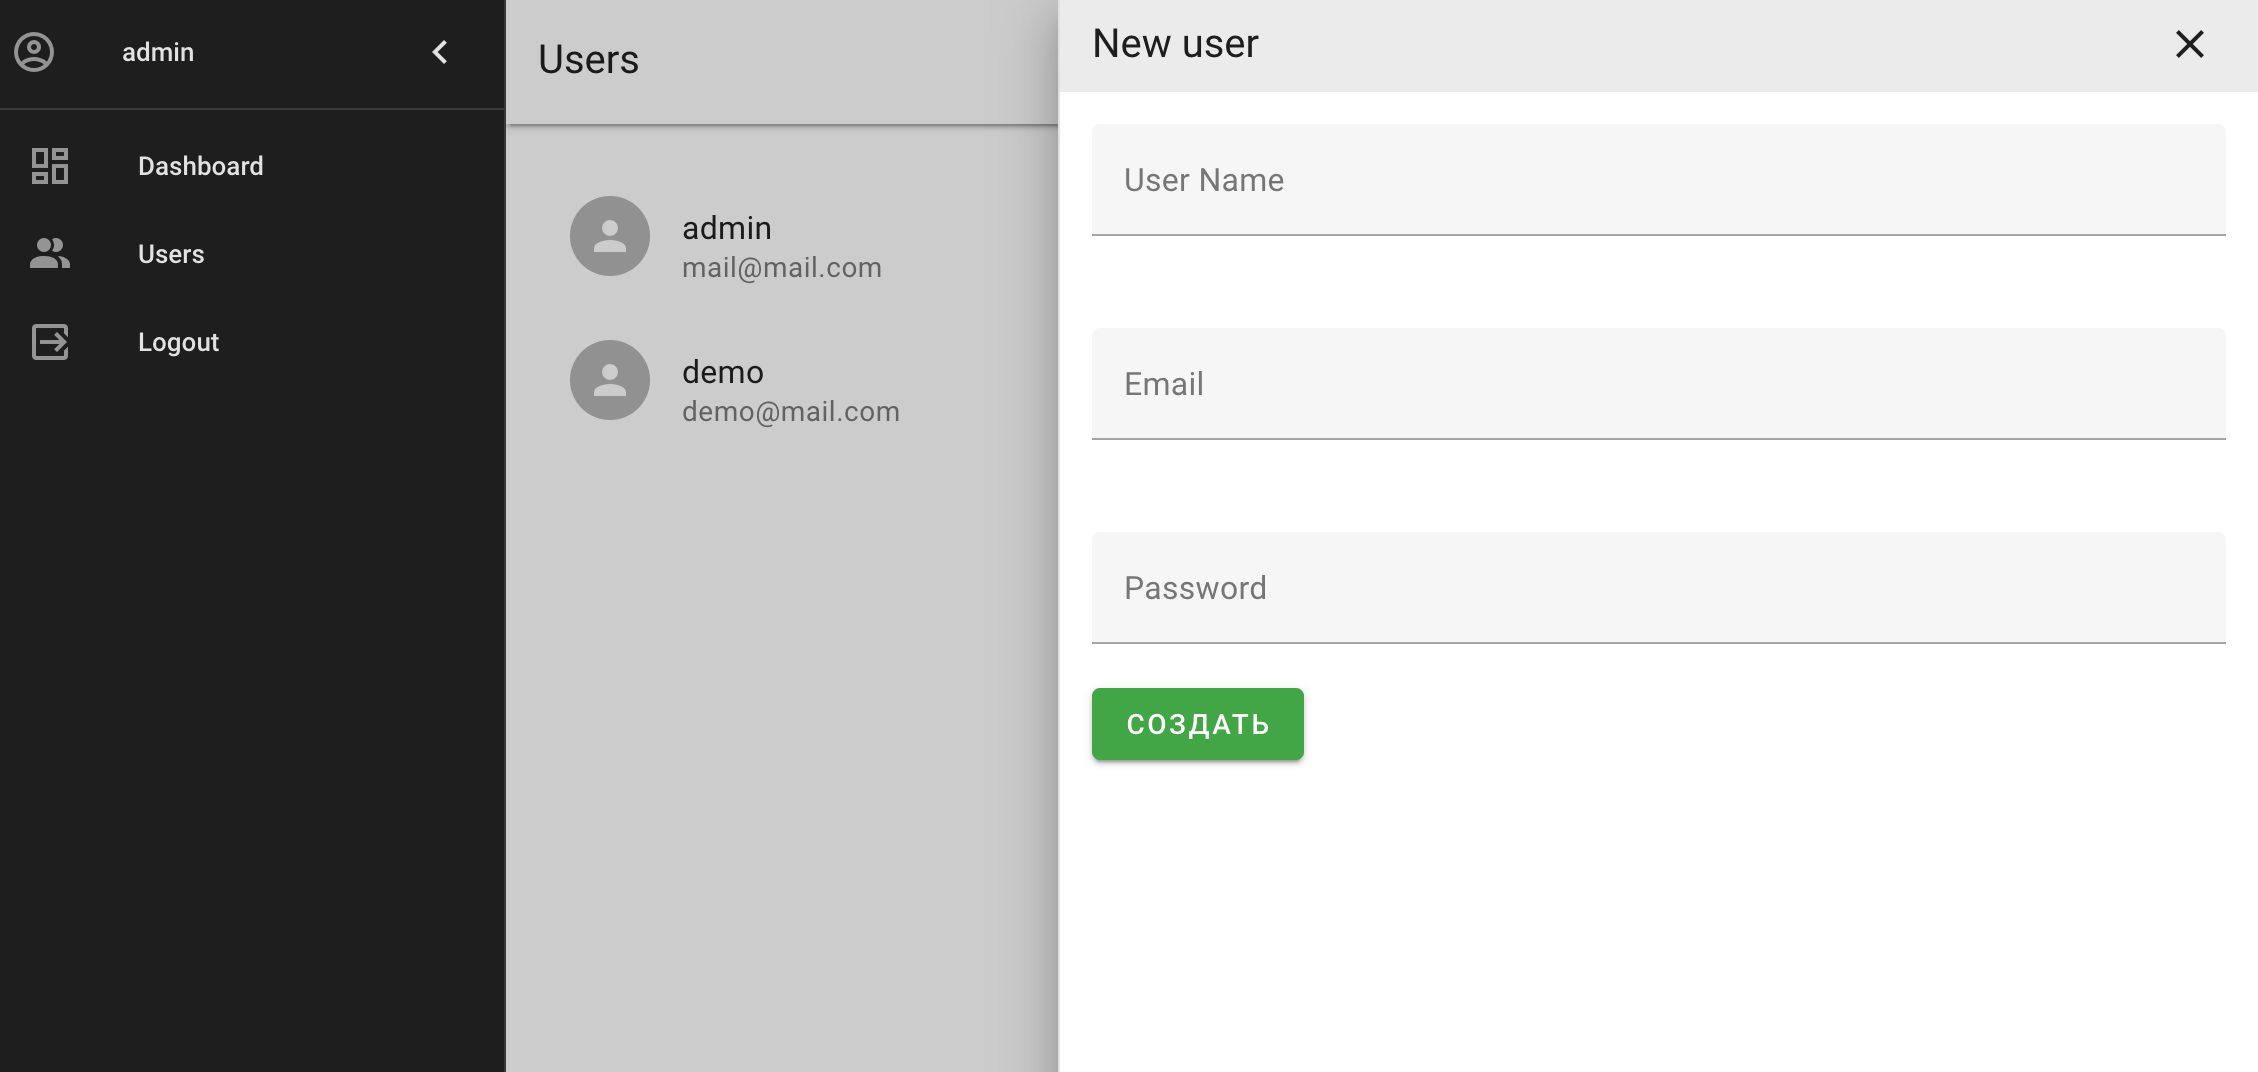
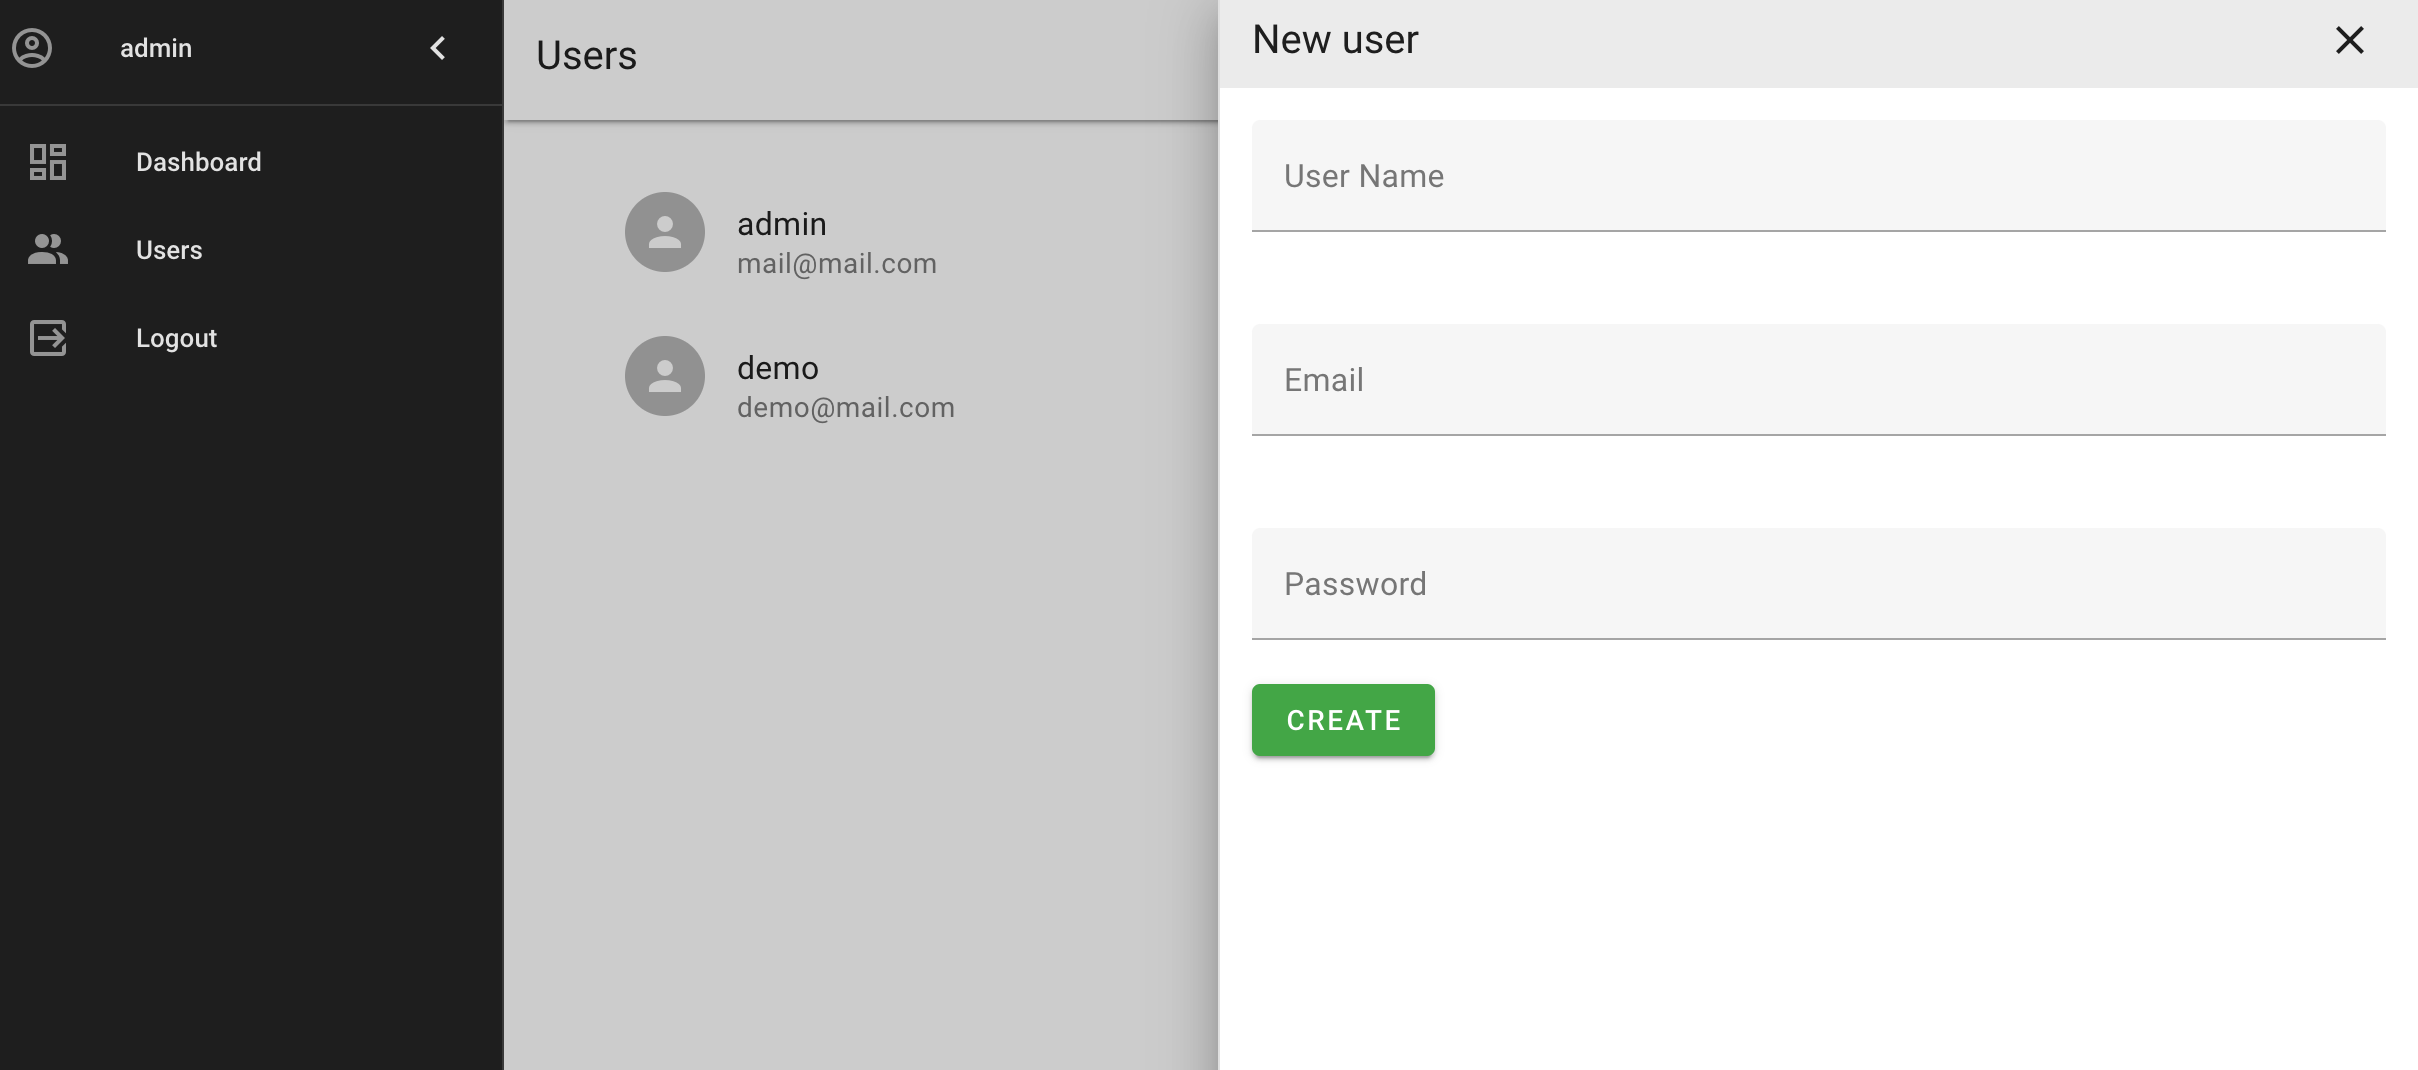
btn rename

diff --git a/frontend/src/components/NewUserForm.vue b/frontend/src/components/NewUserForm.vue
@@ -32,7 +32,7 @@
           </v-col>
         </v-row>
         <v-btn color="success" class="mr-4" @click.prevent="create">
-          Создать
+          Create
         </v-btn>
       </v-container>
     </v-form>
